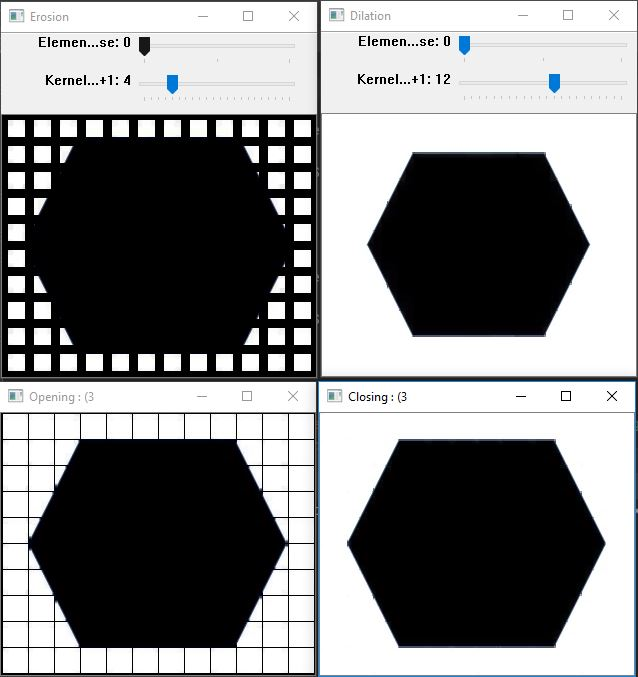
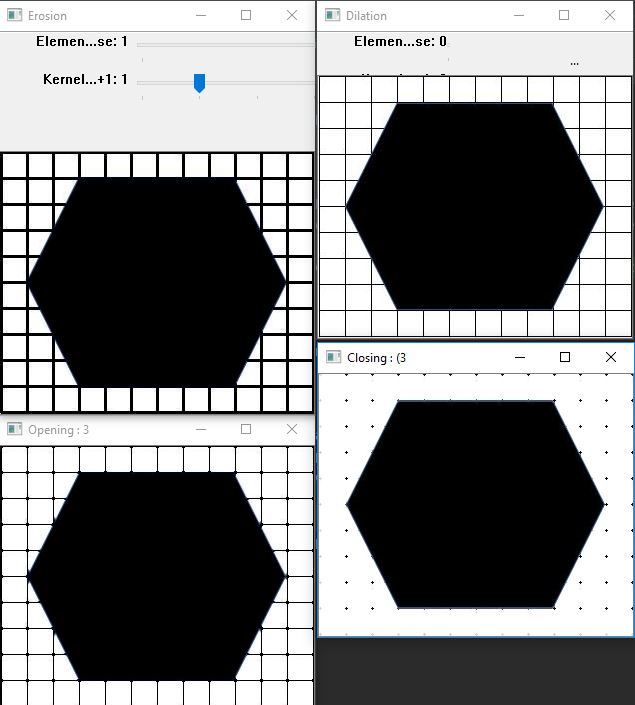
up1

diff --git a/182410103081_Muhammad Agung Santoso_Q2/main.py b/182410103081_Muhammad Agung Santoso_Q2/main.py
@@ -15,7 +15,7 @@ title_dilation_window = 'Dilation'
 
 def main(image):
     global src
-    src = cv.imread("image2.JPG")
+    src = cv.imread("image1.JPG")
     if src is None:
         print('Could not open or find the image: ', image)
         exit(0)
@@ -25,8 +25,8 @@ def main(image):
     cv.namedWindow(title_dilation_window)
     cv.createTrackbar(title_trackbar_element_shape, title_dilation_window, 0, max_elem, dilatation)
     cv.createTrackbar(title_trackbar_kernel_size, title_dilation_window, 0, max_kernel_size, dilatation)
-    erosion(0)
-    dilatation(0)
+    erosion(1)
+    dilatation(1)
     opening()
     closing()
     cv.waitKey()
@@ -53,7 +53,7 @@ def erosion(val):
     cv.imshow(title_erosion_window, erosion_dst)
 
 
-def dilatation(val):
+def dilatation(val=1):
     dilatation_size = cv.getTrackbarPos(title_trackbar_kernel_size, title_dilation_window)
     dilation_shape = morph_shape(cv.getTrackbarPos(title_trackbar_element_shape, title_dilation_window))
     element = cv.getStructuringElement(dilation_shape, (2 * dilatation_size + 1, 2 * dilatation_size + 1),
@@ -65,14 +65,14 @@ def dilatation(val):
 kernelSizes = [(3,3)]
 def opening():
     for kernelSize in kernelSizes:
-        kernel = cv.getStructuringElement(cv.MORPH_RECT, kernelSize)
+        kernel = cv.getStructuringElement(cv.MORPH_CROSS, kernelSize)
         opening = cv.morphologyEx(src, cv.MORPH_OPEN, kernel)
-        cv.imshow(f"Opening : ({kernelSize[0]}", opening)
+        cv.imshow(f"Opening : {kernelSize[0]}", opening)
         cv.waitKey(20)
 
 def closing():
     for kernelSize in kernelSizes:
-        kernel = cv.getStructuringElement(cv.MORPH_RECT, kernelSize)
+        kernel = cv.getStructuringElement(cv.MORPH_CROSS, kernelSize)
         opening = cv.morphologyEx(src, cv.MORPH_CLOSE, kernel)
         cv.imshow(f"Closing : ({kernelSize[0]}", opening)
         cv.waitKey(20)
